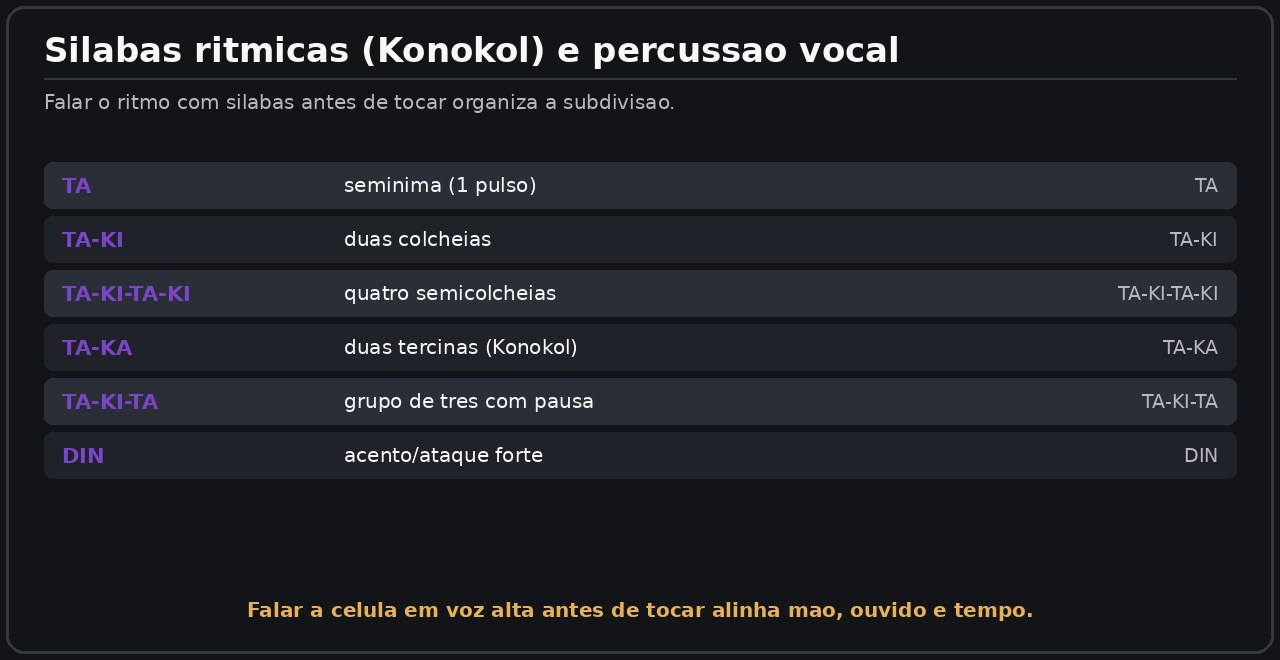
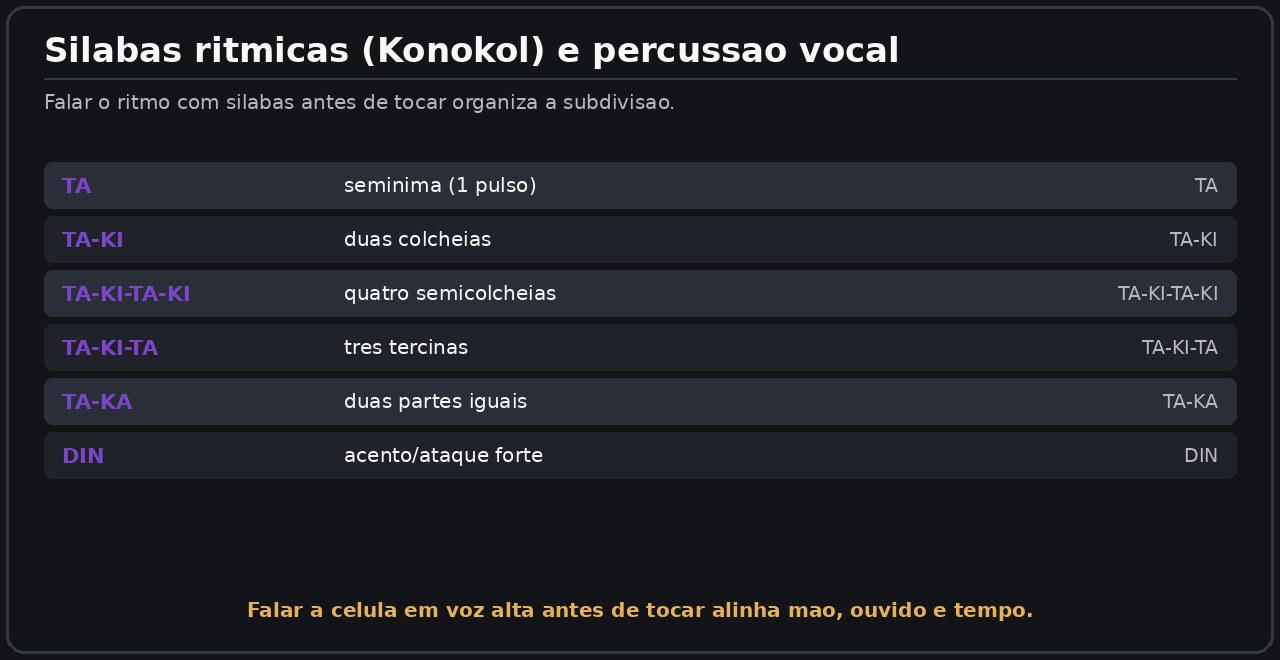
fix(modulo-3): corrige achados do painel de revisao
Rodada 1 do painel mc-rv-modulo-3 devolveu o modulo com 3 FAILs:

- [Musico] Silaba da tercina contraditoria: `m.rhythm` de ModuleCatalog.cpp
  usava "TA-KA" para 3 por tempo, enquanto Topic3H.cpp e o Modulo 1
  (TopicI.cpp) usam TA-KI-TA para 3 partes e TA-KA para 2. Padronizado em
  TA-KI-TA em m.rhythm, na tabela de Topic3H.cpp e no diagrama m3_konokol
  (TA-KA = 2 partes em toda a obra).

- [Musico] EX-3.G.2 alegava 6/8 mas era graduado com subdivision=eighth a
  68 BPM (colcheias a 2 por tempo, binario), o que nao corresponde ao pulso
  de minima pontuada do 6/8. O TempoGrid nao modela 6/8; o exercicio passou
  a ser graduado na grade ternaria (subdivision=triplet), onde seis notas em
  dois tempos caem como 3+3, e o enunciado/objetivo foram reescritos para
  declarar a grade ternaria.

- [QA] testModule3() aceitava um questionario como "exercicio jogavel" e nao
  provava o requisito de exercicio tocado no instrumento. Agora exige, por
  topico, >=1 exercicio tocado (targets/chordPitchClasses/chordProgression,
  sem isQuiz()), com checagem separada para "exercicio jogavel".

- [Tech Lead] testModule2() afirmava estado do Modulo 3 (findModule(3)),
  recriando o conflito entre as branches paralelas. Removidas; a regra
  generica do AGENTS.md 4.1 permanece e as assercoes do Modulo 3 ficam em
  testModule3().

Suite em 1384 checagens verdes, 0 avisos (app + testes).

diff --git a/tests/TestMain.cpp b/tests/TestMain.cpp
@@ -1071,10 +1071,10 @@ void testModule2()
         }
     check (hasGate, "module 2 has a gate exercise");
 
-    // The implemented modules are contiguous from 1 (no gaps), each number is
-    // unique in the catalog, and findModule(3) resolves to the module. This
-    // replaces a fixed "3..20 are placeholders" assertion so the parallel module
-    // branches do not conflict (AGENTS.md §4.1).
+    // The implemented modules are contiguous from 1 (no gaps) and each number is
+    // unique in the catalog. This replaces a fixed "3..20 are placeholders"
+    // assertion so the parallel module branches do not conflict (AGENTS.md §4.1);
+    // the assertions specific to module 3 live in testModule3().
     const auto& modules = ModuleCatalog::getModules();
     juce::StringArray seenNumbers;
     bool seenPlaceholder = false;
@@ -1091,9 +1091,6 @@ void testModule2()
         else
             seenPlaceholder = true;
     }
-
-    check (ModuleCatalog::findModule (3) != nullptr, "module 3 exists");
-    check (ModuleCatalog::findModule (3)->implemented, "module 3 is implemented");
 }
 
 // Module 3 — Etapa 3: ritmo, leitura e levadas. It must follow the same shape as
@@ -1140,18 +1137,32 @@ void testModule3()
     }
 
     // Part of the exercises is played on the instrument and verified by the
-    // detector: at least one executable exercise per topic (client request).
+    // detector (client request): every topic needs at least one exercise that is
+    // really played — a quiz alone does not satisfy this. A separate check below
+    // covers the broader "has a playable exercise" notion.
+    juce::StringArray playedTopics;
     juce::StringArray playableTopics;
     for (const auto& e : m3->exercises)
     {
-        const bool playable = e.isQuiz() || ! e.targets.empty() || ! e.chordPitchClasses.empty()
+        if (e.lessonId.isEmpty())
+            continue;
+
+        const bool played = ! e.targets.empty() || ! e.chordPitchClasses.empty()
                                 || ! e.chordProgression.empty();
-        if (playable && e.lessonId.isNotEmpty() && ! playableTopics.contains (e.lessonId))
+        if (played && ! playedTopics.contains (e.lessonId))
+            playedTopics.add (e.lessonId);
+
+        const bool playable = played || e.isQuiz();
+        if (playable && ! playableTopics.contains (e.lessonId))
             playableTopics.add (e.lessonId);
     }
     for (const auto& topic : { "A", "B", "C", "D", "E", "F", "G", "H" })
+    {
+        check (playedTopics.contains (topic),
+               juce::String ("topic ") + topic + " has an exercise played on the instrument");
         check (playableTopics.contains (topic),
                juce::String ("topic ") + topic + " has a playable exercise");
+    }
 
     // The rhythmic module grades its playable exercises on the grid (REQ-015):
     // every playable non-quiz exercise keeps usesGrid = true, and carries a spec

diff --git a/Source/Course/ModuleCatalog.cpp b/Source/Course/ModuleCatalog.cpp
@@ -1495,11 +1495,15 @@ namespace
             question ("Um 7/8 pode ser agrupado como:",
                       { "2 + 2 + 3", "5 + 5", "3 + 3 + 3", "sempre 4 + 3" }, 0),
         };
-        add (exercise ("EX-3.G.2", juce::String::fromUTF8 ("Tocar em 6/8 na grade"),
-                       juce::String::fromUTF8 ("Tocar seis colcheias (Dó, Ré, Mi) em 6/8, na grade, agrupando 3 + 3."),
-                       juce::String::fromUTF8 ("Notas reconhecidas e alinhadas à grade (on_grid_ratio ≥ 0,77).")), "G");
+        // 6/8 is compound: the eighth notes group 3 + 3 around the dotted-minim
+        // pulse. TempoGrid does not model 6/8 directly, so the exercise is graded
+        // on a triplet grid (3 ticks per beat) where six notes over two beats
+        // land exactly as two groups of three.
+        add (exercise ("EX-3.G.2", juce::String::fromUTF8 ("Seis colcheias em 6/8 na grade ternária"),
+                       juce::String::fromUTF8 ("Tocar seis colcheias (Dó, Ré, Mi) agrupando 3 + 3, o balanço do 6/8, na grade ternária a 68 BPM."),
+                       juce::String::fromUTF8 ("Notas reconhecidas e alinhadas à grade ternária (on_grid_ratio ≥ 0,77).")), "G");
         m.exercises.back().targets = notes ({ "C4", "C4", "C4", "D4", "D4", "D4" });
-        m.exercises.back().subdivision = course::TempoGrid::Subdivision::eighth;
+        m.exercises.back().subdivision = course::TempoGrid::Subdivision::triplet;
         add (exercise ("EX-3.G.3", juce::String::fromUTF8 ("Formula incomum 5/4"),
                        juce::String::fromUTF8 ("Reconhecer os agrupamentos de um 5/4 e de um 7/8."),
                        juce::String::fromUTF8 ("Acerto ≥90% nas questões de fórmulas incomuns.")), "G");
@@ -1587,7 +1591,7 @@ namespace
             { juce::String::fromUTF8 ("Semicolcheias"), juce::String::fromUTF8 ("4 por tempo (4/16)"),
               juce::String::fromUTF8 ("TA-KI-TA-KI") },
             { juce::String::fromUTF8 ("Tercinas"), juce::String::fromUTF8 ("3 por tempo (ternário)"),
-              juce::String::fromUTF8 ("TÁ-KA") },
+              juce::String::fromUTF8 ("TÁ-KI-TA") },
         };
 
         // Curated apostilas (REQ-006, CM-012); see docs/MUSIC.md. The rhythm

diff --git a/tools/make_diagrams.py b/tools/make_diagrams.py
@@ -1246,8 +1246,8 @@ def d_m3_konokol():
     items = [("TA", "seminima (1 pulso)", "TA"),
              ("TA-KI", "duas colcheias", "TA-KI"),
              ("TA-KI-TA-KI", "quatro semicolcheias", "TA-KI-TA-KI"),
-             ("TA-KA", "duas tercinas (Konokol)", "TA-KA"),
-             ("TA-KI-TA", "grupo de tres com pausa", "TA-KI-TA"),
+             ("TA-KI-TA", "tres tercinas", "TA-KI-TA"),
+             ("TA-KA", "duas partes iguais", "TA-KA"),
              ("DIN", "acento/ataque forte", "DIN")]
     _bullets(d, y + 40, items)
     d.text((W / 2, h - 50), "Falar a celula em voz alta antes de tocar alinha mao, ouvido e tempo.",

diff --git a/Source/Course/Content/Topic3H.cpp b/Source/Course/Content/Topic3H.cpp
@@ -23,7 +23,7 @@ std::vector<ContentItem> topic3H()
             { "TA", "seminima", "1 pulso" },
             { "TA-KI", "duas colcheias", "2 por pulso" },
             { "TA-KI-TA-KI", "quatro semicolcheias", "4 por pulso" },
-            { "TA-KA", "duas tercinas", "subdivisao ternaria" },
+            { "TA-KI-TA", "tres tercinas", "subdivisao ternaria" },
             { "DIN", "acento forte", "marcar o tempo forte" },
         }),
         b ("TÁ: semínima (um pulso)."),

diff --git a/AGENTS.md b/AGENTS.md
@@ -358,6 +358,7 @@ Uma entrega só é "pronta" quando:
 | 2026-11-16 | musician + developer + architect + qa + set | **Módulo 2 (Etapa 2 — Teoria dos intervalos e percepção musical) implementado** como referência do padrão: `Source/Course/Intervals.*` (teoria pura de intervalos), `Source/Audio/TonePlayer.*` (áudio de exemplos, RT-safe, REQ-004), `ContentKind::audio`/`score` no modelo e na UI, `Exercise::interval` + `Exercise::usesGrid` e `evaluateIntervals` (o app reconhece as notas tocadas e confere a distância em semitons, em qualquer posição do braço); 8 tópicos (A–H), cada um com ≥5 páginas, imagens, tabelas, áudios e partitura com áudio; 3–5 exercícios por tópico (EX-2.*), gate `C–F–G–C` a 64 BPM; suíte em **950 checagens verdes** | Módulo 2 jogável e auditável; serve de gabarito para as Etapas seguintes |
 | 2026-11-16 | orquestrador + musician + pm + po + tech-lead + architect + developer + qa + security-engineer + set | **16 sub-agentes por Etapa (3–10) criados.** Cada Etapa 3–10 ganhou um **autor** (`mc-modulo-<N>`) e um **revisor** (`mc-rv-modulo-<N>`), já com objetivo, conteúdos, prática, tópicos sugeridos e os dados fixados da Etapa (nível, BPM meta, `on_grid_ratio`, branch). O autor segue o padrão do Módulo 2 (teoria ≥5 páginas/tópico, imagens, áudios, partituras com áudio, 3–5 exercícios/tópico, exercícios tocados reconhecidos pelo app) numa branch própria; o revisor roda o painel completo (Músico, PM, PO, Tech Lead, Arquiteto, Tech Lead, Software Engineers, Tech Lead, QA, Security, SET) e qualquer achado devolve o item ao autor, reiniciando o painel até todos passarem. As Etapas 3–10 são construídas **em paralelo**; a asserção final de `testModule2()` ("3..20 são placeholders") passa a ser uma regra genérica para as branches não conflitarem | As Etapas 3–10 passam a ser produzidas e revisadas em paralelo pelo mesmo pipeline verificável do Módulo 2 |
 | 2026-11-15 | mc-modulo-3 + developer + musician | **Módulo 3 (Etapa 3 — Ritmo, leitura e levadas) implementado** (branch `feat/modulo-3-ritmo-leitura-e-levadas`): 8 tópicos (A–H) em `Source/Course/Content/Topic3A.cpp` … `Topic3H.cpp`, cada um com ≥5 páginas (`content::minTopicChars`), **imagens** e **tabelas**; 21 diagramas novos desenhados por `tools/make_diagrams.py` (`d_m3_*`, incluindo as partituras) e embutidos no binário; **áudios** e **partituras com áudio** (todo `part()` carrega as notas do seu áudio); `makeModule3()` em `ModuleCatalog.cpp` com **27 exercícios** (`EX-3.<tópico>.<n>`, 3–5 por tópico, misturando questionário e exercício **tocado no instrumento** conferido por `intervalExercise`/`targets`/`chordPitchClasses`/`chordProgression`) + o gate `GATE-3` (vamp C–G, `isGate`); nível 2, BPM meta 68 e `on_grid_ratio` 0,77 (MUSIC.md); pattern `PTN-R-PALM` e guitarristas citados; 4 apostilas curadas. Os `Topic3*.cpp` entraram nos dois alvos do `CMakeLists.txt` (aditivo). A asserção fixa "3..20 são placeholders" de `testModule2()`/`testModuleCatalog()`/`testExerciseFilter()` virou regra genérica (números únicos, implementados contíguos a partir de 1, `findModule(3)` implementado, placeholder escolhido dinamicamente) para não conflitar com as branches paralelas. Suíte em **1378 checagens verdes** (0 avisos) | Módulo 3 jogável e auditável dentro do app; fecha o pedido do cliente e serve de segunda referência do padrão do pipeline de módulos |
+| 2026-11-15 | mc-modulo-3 + musician + qa + tech-lead | **Módulo 3 corrige os achados do painel (rodada 1)**: (1) sílaba da tercina unificada em **TA-KI-TA** (era "TÁ-KA" em `m.rhythm` de `ModuleCatalog.cpp` e no diagrama `m3_konokol`, contradizendo `Topic3H.cpp` e o Módulo 1) — TA-KA = 2 partes em toda a obra; (2) `EX-3.G.2` deixou de alegar 6/8 medido em colcheias e passou a ser graduado na **grade ternária** (`subdivision = triplet`), onde seis notas em dois tempos caem como 3+3 (o `TempoGrid` não modela 6/8); (3) `testModule3()` passou a exigir **≥1 exercício tocado** por tópico (`targets`/`chordPitchClasses`/`chordProgression`, sem `isQuiz()`), com checagem separada de "exercício jogável"; (4) removidas as asserções de estado do Módulo 3 de `testModule2()` (ficam só em `testModule3()`), mantendo a regra genérica do §4.1. Suíte em **1384 checagens verdes**, 0 avisos | Fecha os 3 FAILs (Músico, Tech Lead, QA) e mantém o módulo auditável |
 
 
 ## 8. Convenções de código
